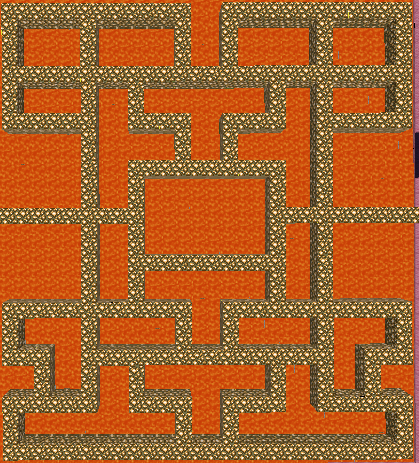
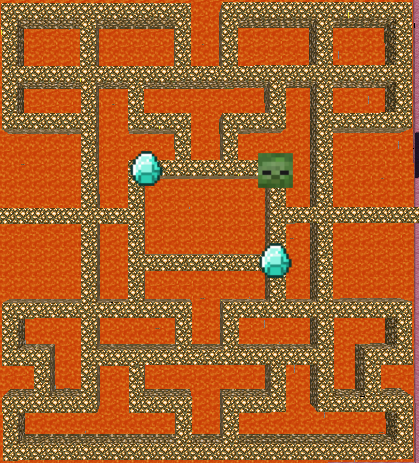
modified and cited final report images

Changed region(s): [[0.5895, 0.3326, 0.7136, 0.4233], [0.3103, 0.3024, 0.4033, 0.4233], [0.6205, 0.514, 0.7136, 0.6048]]

diff --git a/docs/final.md b/docs/final.md
@@ -143,3 +143,7 @@ Under Construction.
 ##References
 * **Wikipedia on Genetic Algorithms:** <https://en.wikipedia.org/wiki/Genetic_algorithm>
 * **N-Queens Part 1: Steepest Hill Climbing:** <http://letstalkdata.com/2013/12/n-queens-part-1-steepest-hill-climbing/>
+
+*Image Credits:*
+* **Diamond.png** <img src="media/Diamond.png" style="display: inline;" />: [Gamepedia Minecraft Wiki](http://minecraft.gamepedia.com/File:Diamond.png)
+* **Zombie.png** <img src="media/Zombie.png" style="display: inline;" />: [Pinterest](https://s-media-cache-ak0.pinimg.com/originals/ac/65/8a/ac658a2c0bc1117c6d547170b23dec72.jpg)
